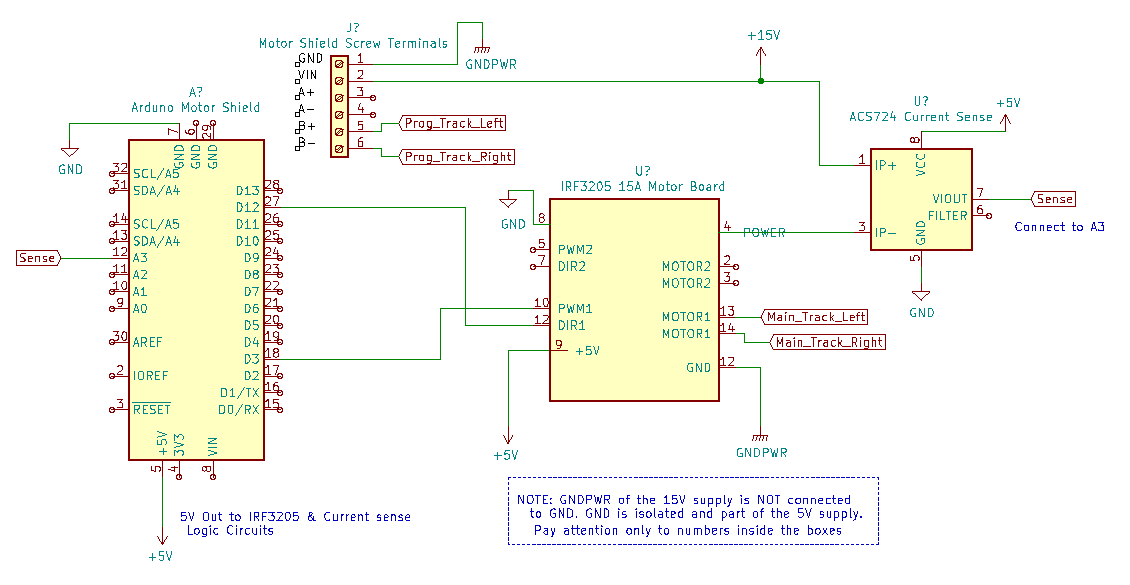
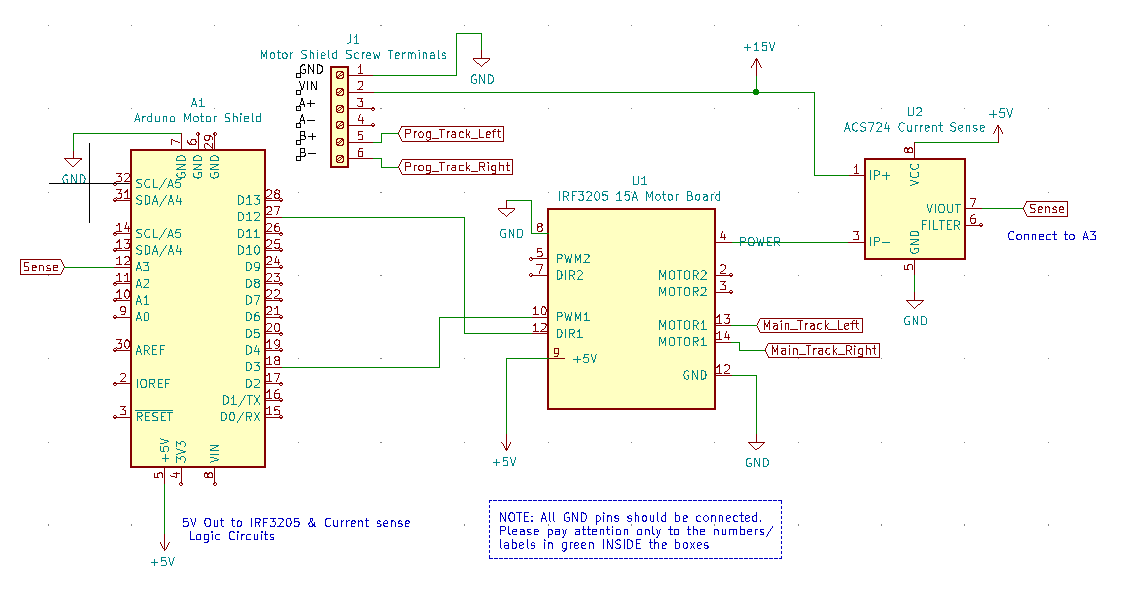
Frightrisk jul5 (#52)
* Remove <D ACK SLOW> since it is no longer supported

* Fix broken link on motor-boards page for IRF3205

* Add todo extension to conf.py

* Add todo list to about page and start switching visible TODOs to .. tags

* Add page for using serial monitors

* Fix IRF3205 schematic and add otg cable images

* Add detail to IBT_2 page

* Add serial monitor to index

* Mode tools items around

* Fix formatting of list items

diff --git a/docs/conf.py b/docs/conf.py
@@ -19,8 +19,8 @@ import sphinx_rtd_theme
 # -- Project information -----------------------------------------------------
 
 project = 'DCC++ EX'
-copyright = '2020, Dave Cutting, Fred Decker, Mani Kumar, Matt H'
-author = 'Dave Cutting, Fred Decker, Mani Kumar, Matt H'
+copyright = '2020, Fred Decker, Mani Kumar'
+author = 'Dave Cutting, Fred Decker, Mani Kumar'
 
 
 # -- General configuration ---------------------------------------------------
@@ -32,7 +32,7 @@ extensions = [
     'sphinx.ext.autodoc',
    # 'sphinx.ext.intersphinx',
     'sphinx.ext.autosectionlabel',
-   # 'sphinx.ext.todo',
+    'sphinx.ext.todo',
    # 'sphinx.ext.coverage',
    # 'sphinx.ext.mathjax',
    # 'sphinx.ext.ifconfig',
@@ -84,6 +84,10 @@ html_theme_options = {
     'collapse_navigation': False,
     'navigation_depth': -1 
 }
+
+#leave this off to have todos invisible, set to true to render them and make the easy to see
+#A list of all the todos in the document can be shown in the about page
+todo_include_todos = False
 
 #html_additional_pages = {
 #    'exwebthrottle': 'exwebthrottle/index.html',

diff --git a/docs/advanced-setup/supported-motorboards/IBT_2-motor-board-setup.rst b/docs/advanced-setup/supported-motorboards/IBT_2-motor-board-setup.rst
@@ -96,9 +96,11 @@ Steps (Upgrade)
 
 4. Option - You may need to connect or solder a 10k or smaller resistor between pin 5 or 6 and ground on the IBT_2 (shown as R1 in Figure 1). There is already a 10k resistor on each chip, which gives us a resistance of 5k when we connect both current sense outputs together. See the notes below for more detail about current sense and a suggestion for using an external current sense board.
 
-5. Select your IBT_2 board in the config.h file.
+5. The diagrams below also show an optional diode protection circuit. If you don't test your board first to make sure that the current you will be using does not put more that 5V on your Arduino analog pin, this will keep you from destroying the input. It is a 5 or 5.1 zener diode (1N4733A, 1N5231B, NZX5V1B, BZX55C5V1, etc.). R2 can be whatever you have on hand. We recommend 2k - 10k.
 
-6. Upload the new sketch to your Arduino Mega
+6. Select your IBT_2 board in the config.h file.
+
+7. Upload the new sketch to your Arduino Mega
 
 Use the following diagrams to connect pins from the Arduino Mega to the IBT_2:
 
@@ -235,7 +237,7 @@ Important Notes on Current Sensing (IBT_2)
 Please do the following to ensure you won't damage the Arduino, your layout, or yourself:
 
 * Test your board to see what voltage it reports for 2 or 3 different currents and extrapolate to make sure that at your required current, example 5A, to CS output does not produce more than 5V.
-* Use a 5.1V zener diode (D1) and current limiting resistor (R1). This would normally be a 270 Ohm resistor.
+* Use a 5.1V zener diode (D1) and current limiting resistor (R2). This would normally be a 5k Ohm resistor but can be anything from 270 to 10k. The Diode can be 5V or 5.1V like a 1N4733A, 1N5231B, etc. Note that after 3.5V the response is no longer linear when using the diode, so you you may want to design your system to output its range between 0 and 4V and use 5V as the over limit setting.
 * Check your board for at least 2 resistors that are labeled "103", you will need a magnifier or to take a picture with your phone and zoom in. 103 = 10k (10 followed by 3 zeros). These are the second from the left resistor in each bank of 4 (R5 and R6). See Figure 3. When we tie the two CS outputs together, that gives us 5k of resistance from which to measure a voltage drop and convert that to current. If you added another 10k resistor (R1) in parallel with the others, that would give you 3.3k which reduces the voltage to the Arduino analog pin to be able to measure higher currents.
 * Put a 5A fuse on each output leg going to your track.
 
@@ -248,7 +250,14 @@ Please do the following to ensure you won't damage the Arduino, your layout, or 
 
 The spec sheet of the BTS7960B states that the "expected" (aka nominal) value for the ratio of output current to the current reported at the current sense pin is 8500 to 1. That means if you have 1 Amp of output current you will get .176 mA of current at the CS pin. If we apply that through our 5k of resistance (V = I*R) we would see .588 Volts at the output connected to our Arduino analog pin. Since the response is linear, we get .588 Amps per Volt. If we have 3A of current to the track, we would have 1.75V. And for 5 Amps, the voltage would be 2.94V. So far, so good, BUT, the tolerance and difference between what is "expected" and what will pass as "acceptable" is huge. The 8500 ratio we expect can be as low as 3000 and has high as 14,000! This means that a 3A current can be reported as anything from 1V to 5V on the CS pin. But what happens at 5A on one of these boards? The answer is that you could have as much as 8.33V connected to your Arduino! In other words, **You could destroy the analog input pin on your Arduino**.
 
-.. WARNING:: If you are going to use more than 3 Amps, you should add a 10k or less current sense resistor (R1) and a 5V Zener diode and series resistor protection circuit (D1 and R2). An additional 10k resistor would give you .392 Volts per Amp and will require a small change to your sketch to adjust your current conversion factor. A 2.2k resistor would allow you to measure up to 10A, but the larger the current range the less sensitivity and accuracy you can get. Besides, we should use boosters and power districts if we need more than 5 Amps, right? ;)
+.. WARNING:: If you are going to use more than 3 Amps, you should add a 10k or less current sense resistor (R1) and a 5V Zener diode and series resistor protection circuit (D1 and R2). See the section above "Important Notes on Current Sensing". An additional 10k resistor would give you .392 Volts per Amp and will require a small change to your sketch to adjust your current conversion factor (usually a value of 10). A 2.2k resistor would allow you to measure up to 10A, but the larger the current range, the less sensitivity and accuracy you can get. Besides, we should use boosters and power districts if we need more than 5 Amps, right? ;)
+
+Modifying Your Motor Board Definition To Give The Correct Current Sense Factor
+---------------------------------------------------------------------------------
+
+If you add a parallel resistor to increase your current sensing range or find your readings are not correct, you will need to adjust your current sense factor. For an unmodified board, a value of 7 is usually good. If you add a 10k parallel resistor to get more current range, you probably need to change it to 10. If you can test with known resistance values to know exacly what voltage it reported to your analog pin for 2 or more currents, you can use a simple formulat to calculate it. Everything you need to create your own motor board defintion is here:
+
+`Creating a Custom Motor Board Definition <https://dcc-ex.com/advanced-setup/motor-board-config.html#your-board-is-not-in-the-supported-list>`_
 
 
 Using External Current Sense

diff --git a/docs/reference/tools/serial-monitor.rst b/docs/reference/tools/serial-monitor.rst
@@ -1,0 +1,71 @@
+*************************
+Using a Serial Monitor
+*************************
+
+What is a Serial Monitor and Why Do I Need One?
+================================================
+
+A Serial Monitor is another name for a "terminal" program. It is software that runs on your computer or phone and connects to a serial port, like the USB connector on an Arduino, and lets you interact with your Command Station. The Arduino IDE has one built in, which makes it a bit of a "Swiss Army Knife" in that it provides a way to upload software to your CS, and connect to it to view logs and send manual commands. If anything goes wrong with our CS, we will ask you to check the startup log with a Serial Monitor. With a Serial Monitor you can:
+
+* Test your Command Station
+* View startup and other diagnostic logs to fix issues or help us support you
+* Turn on extra diagnostic commands
+* Get the ID of a loco on the programming track
+* Diagnose communication issues with your loco on the programming track (ACK failure/Error 308)
+* Send commands to your WiFi board
+* Manually control your locos
+* Program CVs without the need for any other software
+
+If you know how to use a terminal program it is as simple as connecting your device to the Command Station, opening a session and selecting the right baud rate (115200) and line endings (Carriage Return and Line Feed). For the rest of us, we will include detailed instructions on how to use a computer or a phone app to connect to your CS.
+
+Connect with the Arduino Serial Monitor
+========================================
+
+**What You Will Need**
+
+* The Arduino IDE
+* A Computer (Just about any Windows, Mac or Linux machine including the Raspberry Pi)
+* The USB cable for your Arduino
+
+Connect with a Cell Phone
+===========================
+
+**What You Will Need**
+
+* A Cell Phone
+* A Terminal program (see below)
+* An "On The Go" Cable (aka. OTG Cable)
+* The USB Cable for your Arduino
+
+.. NOTE:: You can also use BlueTooth if you have a BlueTooth board attached to your CS and make a small modification to the sketch (CS Software). We will cover how to do that in a **Project** tutorial
+
+.. todo::
+   show how to use bluetooth. There is blutooth serial monitor by CSA and Android bluetooth serial monitor by Rupak Poddar
+
+OTG Cable
+-----------
+
+You will need to find one that is compatible with your phone. Some phones come with one. It is usually Micro USB or USB-C or Apple Lightning on one end and USB 2.0 Female on the other. It acts like an adapter to connect a regular cable that would normally plug into a computer or laptop, and let it connect to your phone instead.
+
+Here is an adapter:
+
+https://www.amazon.com/Thunderbolt-Compatible-Chromebook-Pixelbook-Microsoft/dp/B07KR45LJW/ref=sr_1_4?dchild=1&keywords=otg+adapter&qid=1625863945&s=electronics&sr=1-4
+
+Here is one for Android or MacBook Pro with USB-C with a short pigtail:
+
+https://www.amazon.com/Adapter-JSAUX-Compatible-MacBook-Samsung/dp/B07L749R9R/ref=sr_1_5?dchild=1&keywords=otg+cable&qid=1625863614&sr=8-5
+
+And one for an iPad or iPhone:
+
+https://www.amazon.com/dp/B07V2CMXQT/ref=redir_mobile_desktop?_encoding=UTF8&aaxitk=7aa803dc4108c96ff75758ce1d6f9e46&hsa_cr_id=1752570960701&pd_rd_plhdr=t&pd_rd_r=486502c7-13e1-40e1-9f35-f52cd9335772&pd_rd_w=vHecY&pd_rd_wg=pxSba&ref_=sbx_be_s_sparkle_mcd_asin_0_title
+
+Every cell phone OS such as Android or iOS has a program or two that will work as a serial monitor. For Android, here are a few:
+
+* Serial USB Terminal by Kai Morich
+* `Serial Monitor by CSA <https://play.google.com/store/apps/details?id=com.csa.serialmonitor>`_
+* `USB Serial Console by Felipe Herranz <https://play.google.com/store/apps/details?id=jp.sugnakys.usbserialconsole>`_
+
+Serial Monitor by CSA
+-----------------------
+
+Light and Dark themes

diff --git a/docs/advanced-setup/wifi-config.rst b/docs/advanced-setup/wifi-config.rst
@@ -16,7 +16,9 @@ This page describes the software configuration options for using WiFi to connect
 As mentioned in the above link, you will need the following to proceed:
 
 * A DCC++ EX Command station with Motor Controller
-* A WiFi board (for Blutooth configuration, click here ***TODO: link to bluetooth***
+* A WiFi board (for Blutooth configuration, click here 
+  
+.. todo:: link item above to bluetooth
 
 For a video click `Setting up WiFi <https://www.youtube.com/watch?v=N6TWR7fIl0A&t=5s>`_
 
@@ -27,7 +29,10 @@ For a video click `Setting up WiFi <https://www.youtube.com/watch?v=N6TWR7fIl0A&
 Wireless Connections
 =====================
 
-As mentioned in `WiFi Setup <../get-started/wifi-setup.html>`_, there are two main reasons for wanting to use WiFi; to connect to JMRI without a USB cable, or to connect to a wireless controller like the Engine Driver mobile app. While it can work to simply use WiFi to replace the USB cable to connect the computer running JMRI to your CS, there are better ways and frankly, your electronics are usually under the benchwork, so just buy the right sized cable. But if you have no alternative and need to replace the cable with wireless, we recomend the HC-12 serial wireless bridge boards which we cover in ***TODO: Link here***.
+As mentioned in `WiFi Setup <../get-started/wifi-setup.html>`_, there are two main reasons for wanting to use WiFi; to connect to JMRI without a USB cable, or to connect to a wireless controller like the Engine Driver mobile app. While it can work to simply use WiFi to replace the USB cable to connect the computer running JMRI to your CS, there are better ways and frankly, your electronics are usually under the benchwork, so just buy the right sized cable. But if you have no alternative and need to replace the cable with wireless, we recomend the HC-12 serial wireless bridge boards which we cover in **HC-12 page coming**
+
+.. todo::
+   Add Link above
 
 That said, there are two main wireless technologies that let you send commands to your CS and control your trains:
 

diff --git a/docs/index.rst b/docs/index.rst
@@ -71,12 +71,20 @@ A basic DCC++ EX hardware setup can use easy to find, widely available Arduino b
 * I2C Display support
 * Improved short circuit detection and automatic reset from an overload
 * Current reading, sensing and ACK detection settings in milliAmps instead of just pin readings
+* Non blocking Ack processing - Main track signal is not interrupted when programming on the service track
+* Advanced cv programming diagnostics and tuning
 * Improved adherence to the NMRA DCC specification
 * Complete support for all the old commands and controllers/front-ends like JMRI
+* New DCC-EX features and integrations built into JMRI, Engine, DCCppCab and more
 * Simpler, modular, faster code with an API Library for developers for easy expansion
-* New throttle support from apps like DCCpp Cab
+* New direct throttle support from apps like Engine Driver, DCCpp Cab, 
 * Ability to JOIN operations and service track as one "main" track with 2 power districts when not programming
 * New features and functions in JMRI, like a new current meter
+* Simple address read and set without understanding long/short  cvs
+* Function reminders - Function commands are repeated to ensure changes are read by your decoder
+* Ability to run many more locos
+* Emergency Stop commands
+* Forget locos command - Stops reminders for locos no longer on the track
 * Automation (coming soon!) 
 
 .. note:: DCC-EX is a major rewrite to the code. We started over and rebuilt it from the ground up! For what that means to you, click on our `Rewrite Article <about/rewrite.html>`_.

diff --git a/docs/reference/wire-gauge.rst b/docs/reference/wire-gauge.rst
@@ -17,7 +17,10 @@ There can be a lot of wiring on a complicated layout, here are the main areas th
 Main DCC Bus
 =============
 
-The main bus provides a low resistance, high current capable path for the voltage and current to your track. It may power several locos and all your lights, servos, switches and other accessories. Optionally, you may want to have a separate bus for accessory control and reserve the main bus just for your locos. More on that later. ***TODO: Add link here***
+The main bus provides a low resistance, high current capable path for the voltage and current to your track. It may power several locos and all your lights, servos, switches and other accessories. Optionally, you may want to have a separate bus for accessory control and reserve the main bus just for your locos. More on that later.
+
+.. todo::
+   Add link here. fnd
 
 .. image:: ../_static/images/icons/thumb_up.png
    :alt: thumbs-up icon

diff --git a/docs/reference/software/diagnostic-d-command.rst b/docs/reference/software/diagnostic-d-command.rst
@@ -39,11 +39,3 @@ to 250mA according to NMRA standards. Some loco decoders require more than this,
 temporarily removes this limit to allow the decoder more power. The normal limit will be re-imposed when the programming track
 is switched off with ``<0>`` or ``<0 PROG>``.
 
-.. caution:: The following command must not be used with locos on the track. It could reprogram or damage you locos!
-
-There may be a time if you are experiencing issues and we need to verify that a signal is being generated and sent to the motorboard. This test will allow you to see if the signal is varying without having to connect an oscilloscope or a packet analyzer.
-
-``<D DCC SLOW>`` This runs the DCC signal at 512 times slower than normal so you can watch a LED blinking out the DCC waveform. It's also fun to watch. But remember, to not place your locos on the track with this function running!
-
-Reset with ``<D DCC NORMAL>``.
-

diff --git a/docs/advanced-setup/high-accuracy.rst b/docs/advanced-setup/high-accuracy.rst
@@ -60,7 +60,8 @@ By luck, two of the Mega pins associated with Timer 1 are directly under the DIR
 
 However, an Uno's pins do not line up with this shield. In order to use high accuracy mode, you would have to change the signal pin assignements and use a jumper wire.
 
-***TODO: put description here***
+.. todo::
+   put description here
 
 Inverter Circuit
 ================

diff --git a/docs/about/rewrite.rst b/docs/about/rewrite.rst
@@ -107,4 +107,6 @@ This is a team effort. There are a dedicated and organized group of about 15-20 
 Click here for `The DCC++ EX Team Credits <index.html>`_
 
 Fred Decker
-October 2020 
+October 2020
+
+.. todolist::

diff --git a/docs/reference/tools/index.rst b/docs/reference/tools/index.rst
@@ -1,0 +1,15 @@
+*****************
+Diagnostic Tools
+*****************
+
+
+.. toctree::
+    :maxdepth: 2
+    
+    diagnostic-tools
+
+
+.. toctree::
+    :maxdepth: 2
+
+    serial-monitor

diff --git a/docs/reference/index.rst b/docs/reference/index.rst
@@ -50,9 +50,9 @@ Diagnostic Tools
 ------------------
 
 .. toctree::
-    :maxdepth: 1
+    :maxdepth: 2
 
-    tools/diagnostic-tools
+    tools/index
 
 Miscellaneous
 ---------------
